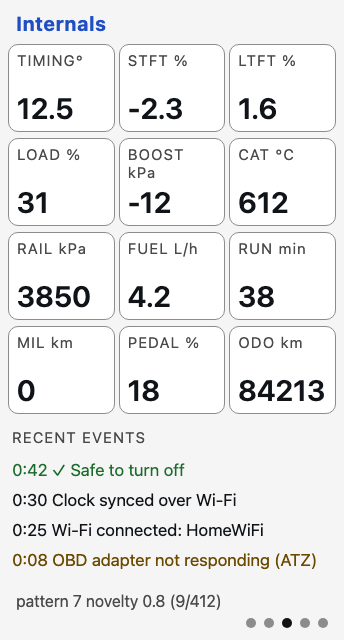
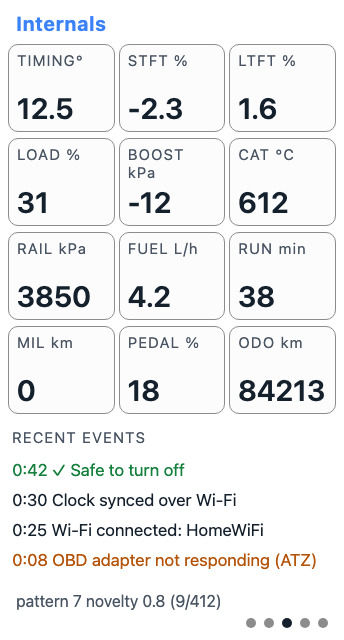
CAR TEMP and SYS TEMP labels, LCD light theme, Mosaico in dark, light and dark
* CAR TEMP and SYS TEMP labels, light theme for the LCD, light Mosaico concept

Page 1 shows the coolant as CAR TEMP, page 5 the chip's own sensor as SYS TEMP.
Light theme: pure white view with tiles drawn by their borders, brand navy text,
a light blue accent, warm oranges in place of dark browns, a coral power bar
with its own palette slot, vivid page-5 section colours. Flashed on the board:
light theme switch 27 ms, 5,589 USB door requests over 5 minutes all answered
(median 54 ms, max 80 ms), no resets, scheduler all deadlines met.

Claude-Session: https://claude.ai/code/session_01XTAvvNGWPbxk6e88iM5qjd

* display.c: comments match the new colours and labels

Claude-Session: https://claude.ai/code/session_01XTAvvNGWPbxk6e88iM5qjd

* Mosaico concept: one image, screens in dark, light and dark

Claude-Session: https://claude.ai/code/session_01XTAvvNGWPbxk6e88iM5qjd

---------

diff --git a/docs/screens/screens.html b/docs/screens/screens.html
@@ -26,8 +26,8 @@ body{margin:0;background:#0A0A0A;font-family:Montserrat,system-ui,sans-serif;col
  <div class="bar"><span style="color:#56F487">&#9679;</span><span style="color:#56F487">&#9632;</span><span style="color:#B8B8B8">&#9650;</span><span class="brand">CarMind</span><span style="margin-left:12px;font-weight:700">18:42</span></div>
  <div style="padding:10px 16px 0"><div class="cap">RPM</div><div class="big">2350</div><div style="margin-top:10px;height:16px;border-radius:8px;background:#050505"><div style="width:34%;height:100%;border-radius:8px;background:#8CC8FF"></div></div></div>
  <div style="padding:12px 16px 0"><div class="cap">SPEED km/h</div><div class="big" style="color:#8CC8FF">64</div></div>
- <div class="grid2"><div class="tile"><span class="cap" style="font-size:16px">TEMP °C</span><span style="font-size:36px;font-weight:600">88</span></div><div class="tile"><span class="cap" style="font-size:16px">BATTERY V</span><span style="font-size:36px;font-weight:600">14.1</span></div><div class="tile"><span class="cap" style="font-size:16px">KM/L</span><span style="font-size:36px;font-weight:600">9.1</span></div><div class="tile"><span class="cap" style="font-size:16px">FUEL %</span><span style="font-size:36px;font-weight:600">62</span></div></div>
- <span class="muted" style="position:absolute;left:16px;top:532px;font-size:17px">CPU</span><i style="position:absolute;left:104px;top:539px;width:120px;height:16px;border-radius:8px;background:#4A4A4A"></i><i style="position:absolute;left:104px;top:539px;width:26px;height:16px;border-radius:8px;background:#8CC8FF"></i><span style="position:absolute;right:16px;top:532px;font-size:17px">22 %</span><span class="muted" style="position:absolute;left:16px;top:572px;font-size:17px">Power</span><i style="position:absolute;left:104px;top:579px;width:120px;height:16px;border-radius:8px;background:#4A4A4A"></i><i style="position:absolute;left:104px;top:579px;width:62px;height:16px;border-radius:8px;background:#F2A13A"></i><span style="position:absolute;right:16px;top:572px;font-size:17px">0.52 W</span>
+ <div class="grid2"><div class="tile"><span class="cap" style="font-size:16px">CAR TEMP °C</span><span style="font-size:36px;font-weight:600">88</span></div><div class="tile"><span class="cap" style="font-size:16px">BATTERY V</span><span style="font-size:36px;font-weight:600">14.1</span></div><div class="tile"><span class="cap" style="font-size:16px">KM/L</span><span style="font-size:36px;font-weight:600">9.1</span></div><div class="tile"><span class="cap" style="font-size:16px">FUEL %</span><span style="font-size:36px;font-weight:600">62</span></div></div>
+ <span class="muted" style="position:absolute;left:16px;top:532px;font-size:17px">CPU</span><i style="position:absolute;left:104px;top:539px;width:120px;height:16px;border-radius:8px;background:#4A4A4A"></i><i style="position:absolute;left:104px;top:539px;width:26px;height:16px;border-radius:8px;background:#8CC8FF"></i><span style="position:absolute;right:16px;top:532px;font-size:17px">22 %</span><span class="muted" style="position:absolute;left:16px;top:572px;font-size:17px">Power</span><i style="position:absolute;left:104px;top:579px;width:120px;height:16px;border-radius:8px;background:#4A4A4A"></i><i style="position:absolute;left:104px;top:579px;width:62px;height:16px;border-radius:8px;background:#F2A33A"></i><span style="position:absolute;right:16px;top:572px;font-size:17px">0.52 W</span>
  <div class="dots"><span class="on"></span><span></span><span></span><span></span><span></span></div>
 </div>
 
@@ -67,7 +67,7 @@ body{margin:0;background:#0A0A0A;font-family:Montserrat,system-ui,sans-serif;col
  <div class="grid2" style="padding:4px 8px 0;gap:6px;white-space:nowrap">
   <div class="tile" style="height:84px;border:2px solid #AD8DFD"><span class="cap" style="font-size:15px;color:#AD8DFD">MIPS 0 / 1</span><span style="font-size:22px;font-weight:600">8.7 / 0.2</span></div>
   <div class="tile" style="height:84px;border:2px solid #72ECE4"><span class="cap" style="font-size:15px;color:#72ECE4">PSRAM</span><span style="font-size:22px;font-weight:600">0.2/7.8 MB</span></div>
-  <div class="tile" style="height:84px;border:2px solid #6CB35D"><span class="cap" style="font-size:15px;color:#6CB35D">TEMP</span><span style="font-size:22px;font-weight:600">41 °C</span></div>
+  <div class="tile" style="height:84px;border:2px solid #6CB35D"><span class="cap" style="font-size:15px;color:#6CB35D">SYS TEMP</span><span style="font-size:22px;font-weight:600">41 °C</span></div>
   <div class="tile" style="height:84px;border:2px solid #FE86C2"><span class="cap" style="font-size:15px;color:#FE86C2">UPTIME / FW</span><span style="font-size:22px;font-weight:600">14m  v2.5.1</span></div>
  </div>
  <div style="position:absolute;left:8px;top:236px;width:328px;height:128px;box-sizing:border-box;background:#050505;border:2px solid #38B8F6;border-radius:12px"><span class="cap" style="position:absolute;left:8px;top:2px;font-size:15px;color:#38B8F6">JOBS</span><span class="muted" style="position:absolute;right:8px;top:2px;font-size:15px">core load 4% / 3%</span><i style="position:absolute;left:8px;top:36px;width:12px;height:12px;border-radius:6px;background:#56F487"></i><span style="position:absolute;left:28px;top:28px;font-size:17px;">Car data</span><i style="position:absolute;left:136px;top:36px;width:64px;height:12px;border-radius:4px;background:#4A4A4A"></i><i style="position:absolute;left:136px;top:36px;width:11px;height:12px;border-radius:4px;background:#56F487"></i><span style="position:absolute;right:10px;top:28px;font-size:17px;color:#F2ECE1">0.6 s</span><i style="position:absolute;left:8px;top:64px;width:12px;height:12px;border-radius:6px;background:#56F487"></i><span style="position:absolute;left:28px;top:56px;font-size:17px;">AI model</span><i style="position:absolute;left:136px;top:64px;width:64px;height:12px;border-radius:4px;background:#4A4A4A"></i><i style="position:absolute;left:136px;top:64px;width:1px;height:12px;border-radius:4px;background:#56F487"></i><span style="position:absolute;right:10px;top:56px;font-size:17px;color:#F2ECE1">&lt;0.1 s</span></div>
@@ -80,7 +80,7 @@ body{margin:0;background:#0A0A0A;font-family:Montserrat,system-ui,sans-serif;col
  <div class="grid2" style="padding:4px 8px 0;gap:6px;white-space:nowrap">
   <div class="tile" style="height:84px;border:2px solid #AD8DFD"><span class="cap" style="font-size:15px;color:#AD8DFD">MIPS 0 / 1</span><span style="font-size:22px;font-weight:600">8.7 / 0.2</span></div>
   <div class="tile" style="height:84px;border:2px solid #72ECE4"><span class="cap" style="font-size:15px;color:#72ECE4">PSRAM</span><span style="font-size:22px;font-weight:600">0.2/7.8 MB</span></div>
-  <div class="tile" style="height:84px;border:2px solid #6CB35D"><span class="cap" style="font-size:15px;color:#6CB35D">TEMP</span><span style="font-size:22px;font-weight:600">41 °C</span></div>
+  <div class="tile" style="height:84px;border:2px solid #6CB35D"><span class="cap" style="font-size:15px;color:#6CB35D">SYS TEMP</span><span style="font-size:22px;font-weight:600">41 °C</span></div>
   <div class="tile" style="height:84px;border:2px solid #FE86C2"><span class="cap" style="font-size:15px;color:#FE86C2">UPTIME / FW</span><span style="font-size:22px;font-weight:600">14m  v2.5.1</span></div>
  </div>
  <div style="position:absolute;left:8px;top:236px;width:328px;height:128px;box-sizing:border-box;background:#050505;border:2px solid #38B8F6;border-radius:12px"><span class="cap" style="position:absolute;left:8px;top:2px;font-size:15px;color:#38B8F6">JOBS</span><span class="muted" style="position:absolute;right:8px;top:2px;font-size:15px">core load 4% / 3%</span><i style="position:absolute;left:8px;top:36px;width:12px;height:12px;border-radius:6px;background:#56F487"></i><span style="position:absolute;left:28px;top:28px;font-size:17px;">Car data</span><i style="position:absolute;left:136px;top:36px;width:64px;height:12px;border-radius:4px;background:#4A4A4A"></i><i style="position:absolute;left:136px;top:36px;width:11px;height:12px;border-radius:4px;background:#56F487"></i><span style="position:absolute;right:10px;top:28px;font-size:17px;color:#F2ECE1">0.6 s</span><i style="position:absolute;left:8px;top:64px;width:12px;height:12px;border-radius:6px;background:#56F487"></i><span style="position:absolute;left:28px;top:56px;font-size:17px;">AI model</span><i style="position:absolute;left:136px;top:64px;width:64px;height:12px;border-radius:4px;background:#4A4A4A"></i><i style="position:absolute;left:136px;top:64px;width:1px;height:12px;border-radius:4px;background:#56F487"></i><span style="position:absolute;right:10px;top:56px;font-size:17px;color:#F2ECE1">&lt;0.1 s</span><i style="position:absolute;left:8px;top:92px;width:12px;height:12px;border-radius:6px;background:#56F487"></i><span style="position:absolute;left:28px;top:84px;font-size:17px;">Learning</span><i style="position:absolute;left:136px;top:92px;width:64px;height:12px;border-radius:4px;background:#4A4A4A"></i><i style="position:absolute;left:136px;top:92px;width:1px;height:12px;border-radius:4px;background:#56F487"></i><span style="position:absolute;right:10px;top:84px;font-size:17px;color:#F2ECE1">&lt;0.1 s</span></div>
@@ -105,7 +105,7 @@ body{margin:0;background:#0A0A0A;font-family:Montserrat,system-ui,sans-serif;col
  <div class="bar"><span style="color:#B8B8B8">&#9679;</span><span style="color:#56F487">&#9632;</span><span style="color:#B8B8B8">&#9650;</span><span class="brand">CarMind</span><span style="margin-left:12px;font-weight:700">--:--</span></div>
  <div style="padding:10px 16px 0"><div class="cap">RPM</div><div class="big" style="color:#7A7A7A">----</div><div style="margin-top:10px;height:16px;border-radius:8px;background:#050505"></div></div>
  <div style="padding:12px 16px 0"><div class="cap">SPEED km/h</div><div class="big" style="color:#7A7A7A">--</div></div>
- <div class="grid2"><div class="tile"><span class="cap" style="font-size:16px">TEMP °C</span><span style="font-size:36px;font-weight:600;color:#7A7A7A">--</span></div><div class="tile"><span class="cap" style="font-size:16px">BATTERY V</span><span style="font-size:36px;font-weight:600;color:#7A7A7A">--</span></div><div class="tile"><span class="cap" style="font-size:16px">KM/L</span><span style="font-size:36px;font-weight:600;color:#7A7A7A">--</span></div><div class="tile"><span class="cap" style="font-size:16px">FUEL %</span><span style="font-size:36px;font-weight:600;color:#7A7A7A">--</span></div></div>
+ <div class="grid2"><div class="tile"><span class="cap" style="font-size:16px">CAR TEMP °C</span><span style="font-size:36px;font-weight:600;color:#7A7A7A">--</span></div><div class="tile"><span class="cap" style="font-size:16px">BATTERY V</span><span style="font-size:36px;font-weight:600;color:#7A7A7A">--</span></div><div class="tile"><span class="cap" style="font-size:16px">KM/L</span><span style="font-size:36px;font-weight:600;color:#7A7A7A">--</span></div><div class="tile"><span class="cap" style="font-size:16px">FUEL %</span><span style="font-size:36px;font-weight:600;color:#7A7A7A">--</span></div></div>
  <div style="text-align:center;color:#FCCA21;font-size:20px;margin-top:14px">Searching for adapter  42 s</div>
  <div class="foot" style="bottom:34px">CPU 2% / 0%   Pow 0.6 W</div><div class="cpubar"><i style="width:2%"></i></div>
  <div class="dots"><span class="on"></span><span></span><span></span><span></span><span></span></div>

diff --git a/docs/images/src/mosaico-rev.html b/docs/images/src/mosaico-rev.html
@@ -23,6 +23,28 @@ h1{margin:0;font-size:31px;font-weight:800;display:inline-block}
 .bar{height:7px;border-radius:4px;background:#4A4A4A;margin-top:8px;overflow:hidden}
 .bar i{display:block;height:100%;background:#8CC8FF;border-radius:4px}
 .tag{font-size:11px;font-weight:700;letter-spacing:.06em;border:1.5px solid currentColor;border-radius:6px;padding:1px 6px;margin-left:8px}
+
+/* the middle device in the light theme: the same rules, colours mapped as main/display.c does */
+.theme-light h1{margin:0;font-size:31px;font-weight:800;display:inline-block}
+.theme-light .scr{width:100%;height:100%;box-sizing:border-box;border-radius:28px;background:#FFFFFF;padding:20px 22px;text-align:left;position:relative}
+.theme-light .top{display:flex;justify-content:space-between;align-items:center;font-size:19px;font-weight:700}
+.theme-light .muted{color:#4A5563}
+.theme-light .small{font-size:13px}
+.theme-light .card{background:#FCFCFC;border:1.5px solid #8C8C8C;border-radius:16px;padding:12px 16px;margin-top:12px}
+.theme-light .light{border-color:#EA6A12}
+.theme-light .lbl{font-size:12px;letter-spacing:.09em;color:#4A5563;font-weight:600}
+.theme-light .light .lbl{color:#EA6A12}
+.theme-light .est{border-color:#BE123C}
+.theme-light .est .lbl{color:#BE123C}
+.theme-light .amber{color:#DD6E0E}
+.theme-light .green{color:#15803D}
+.theme-light .orange{color:#F59A2E}
+.theme-light .kv{display:flex;justify-content:space-between;align-items:baseline;margin-top:9px;font-size:16px}
+.theme-light .big{font-size:26px;font-weight:600}
+.theme-light .bar{height:7px;border-radius:4px;background:#8C8C8C;margin-top:8px;overflow:hidden}
+.theme-light .bar i{display:block;height:100%;background:#3B82F6;border-radius:4px}
+.theme-light .tag{font-size:11px;font-weight:700;letter-spacing:.06em;border:1.5px solid currentColor;border-radius:6px;padding:1px 6px;margin-left:8px}
+.theme-light .scr{color:#15202D}
 </style></head><body><div class="wrap">
 <h1>OpenCarMind with CarMind R.E.V on ESP-Mosaico</h1><span class="sub">Concept for the next board: ESP32-S31, 480 × 480 touch display, IMU, battery</span>
 <div class="row">
@@ -39,10 +61,10 @@ h1{margin:0;font-size:31px;font-weight:800;display:inline-block}
     <div class="bar"><i style="width:47%;background:#56F487"></i></div><div class="small muted" style="margin-top:6px">tank size learned on the board: 50 L</div></div>
 </div></div><div class="cap">Drive: gauges, what the model sees, and the learned tank</div></div>
 
-<div class="col"><div class="dev"><div class="scr">
+<div class="col"><div class="dev theme-light"><div class="scr">
   <div class="top"><span>AI <span class="tag orange">R.E.V</span></span><span class="small muted">142 checks · 2.9 ms</span></div>
   <div class="card light"><div class="kv" style="margin-top:0"><span><span class="lbl">AI SEES</span> <b style="font-size:20px;margin-left:6px">Cruising</b></span><span class="small">87 % sure</span></div>
-    <div class="small" style="color:#B8B8B8;margin-top:4px">fixed in v1: learns in the car once the IMU gives it labels</div></div>
+    <div class="small" style="color:#4A5563;margin-top:4px">fixed in v1: learns in the car once the IMU gives it labels</div></div>
   <div class="card est"><div class="lbl">AI ESTIMATES</div>
     <div class="kv"><span>Brake pressure</span><span class="big">6.3 <span class="small muted">bar</span></span></div>
     <div class="kv"><span>Engine torque <span class="tag amber">PHYSICS</span></span><span class="big amber">85 <span class="small">N m</span></span></div>

diff --git a/docs/index.html b/docs/index.html
@@ -213,7 +213,7 @@
 
   <section id="next">
     <h2>Next board: ESP-Mosaico with the ESP32-S31</h2>
-    <figure class="fig"><img src="images/mosaico-rev.png" alt="Concept: OpenCarMind with CarMind R.E.V on ESP-Mosaico, three 480 by 480 screens: drive gauges, what R.E.V sees and estimates, and what it has learned" loading="lazy" width="3200" height="1480"></figure>
+    <figure class="fig"><img src="images/mosaico-rev.png" alt="Concept: OpenCarMind with CarMind R.E.V on ESP-Mosaico, three 480 by 480 screens in the dark, light and dark themes: drive gauges, what R.E.V sees and estimates, and what it has learned" loading="lazy" width="3200" height="1480"></figure>
     <div class="narrow">
       <p>I have an ESP-Mosaico on order<sup><a href="#r4">[4]</a></sup>. Its ESP32-S31 has two RISC-V cores at 320 MHz with a 128-bit SIMD path, Wi-Fi 6, and Bluetooth 5.4 with both LE and Classic<sup><a href="#r5">[5]</a></sup>. For a car logger that means a 2.16-inch 480 × 480 AMOLED touch screen, Classic adapters such as the OBDLink MX+ within reach, CAN through TWAI and a transceiver, an IMU and magnetometer, a 65 mAh battery to finish the last save, and 16 MB of PSRAM<sup><a href="#r6">[6]</a>,<a href="#r7">[7]</a></sup>. It has no microSD slot, so drives would go to its 128 MB NAND.</p>
       <p>If you build with the ESP32, this is a good board to get, and the port goes faster with more people testing it. The Vision Combo Kit is 59 USD on the <a href="https://store.mosaico.ai/products/esp-mosaico">ESP-Mosaico Store</a> (pre-order, about 15 days to dispatch, as of 3 November 2026). Found something on yours? Open an issue or a pull request on <a href="https://github.com/AlveeeRahman/OpenCarMind">GitHub</a>.</p>

diff --git a/main/display.c b/main/display.c
@@ -87,14 +87,18 @@ static const char *TAG = "display";
  * themes, dim (an idle link) at least 3:1. Dark tiles are near-black (#050505): a grey fill reads as a lit panel
  * on this backlight, so tiles are drawn by their borders. Page 5 gives each of its seven sections its own colour,
  * placed by enumerating all arrangements: in dark, no two sections closer than 15.4 (OKLab x100) for normal vision and
- * every pair that touches at least 8.4 for colour-blind readers; in light, at least 14.7 for normal vision. Each
- * section has a caption, so colour is never the only cue. All values stay distinct after RGB565. */
+ * every pair that touches at least 8.4 for colour-blind readers. Light uses the same hues deepened to saturated mid tones
+ * on pure white (bg #FFFFFF, tiles #FCFCFC, the same on the RGB565 panel, so tiles are drawn by their borders as in
+ * dark), brand navy text, a light blue accent, light warm oranges, no near-black tints that read as mud on the LCD:
+ * body colours at least 4.5:1 on the white tile, the accent and the two oranges at least 3:1 (large numbers, bars, bold heads). The dark theme's pastels
+ * would be 1.4 to 2.6:1 on white. Each section has a caption, so colour is never the only cue. All values stay
+ * distinct after RGB565. */
 typedef struct { uint32_t bg, tile, text, muted, accent, ok, warn, bad, border, dim, violet, blue, amber, sev_high, teal, pink,
-                 orange, red, sage; } theme_t;
+                 orange, red, sage, power; } theme_t;
 static const theme_t THEME_DARK  = {0x000000, 0x050505, 0xF2ECE1, 0xB8B8B8, 0x8CC8FF, 0x56F487, 0xFCCA21, 0xE64343, 0x4A4A4A, 0x7A7A7A,
-                                    0xAD8DFD, 0x38B8F6, 0xF2A13A, 0xF08E54, 0x72ECE4, 0xFE86C2, 0xFE860F, 0xFD122E, 0x6CB35D};
-static const theme_t THEME_LIGHT = {0xF5F5F5, 0xFFFFFF, 0x101418, 0x4A4A4A, 0x1F4FC2, 0x1B6B2A, 0x6B4A00, 0xC62828, 0x8C8C8C, 0x6E6E6E,
-                                    0x5517A5, 0x196EA9, 0x8F5200, 0xA84300, 0x034239, 0x971C65, 0xA65F00, 0xD4002A, 0x40731A};
+                                    0xAD8DFD, 0x38B8F6, 0xF2A13A, 0xF08E54, 0x72ECE4, 0xFE86C2, 0xFE860F, 0xFD122E, 0x6CB35D, 0xF2A33A};
+static const theme_t THEME_LIGHT = {0xFFFFFF, 0xFCFCFC, 0x15202D, 0x4A5563, 0x3B82F6, 0x15803D, 0xB45309, 0xC62828, 0x8C8C8C, 0x6B7280,
+                                    0x7C3AED, 0x1D4ED8, 0xDD6E0E, 0xC2410C, 0x0E7490, 0xA21CAF, 0xEA6A12, 0xBE123C, 0x4D7C0F, 0xE5484D};
 static const theme_t *T = &THEME_DARK;
 #define C_BG      (T->bg)
 #define C_TILE    (T->tile)
@@ -114,6 +118,7 @@ static const theme_t *T = &THEME_DARK;
 #define C_RED     (T->red)
 #define C_SAGE    (T->sage)
 #define C_AMBER   (T->amber)      /* an estimated value (no PID behind it) */
+#define C_POWER   (T->power)      /* the power bar on page 1: amber in dark, coral red next to the blue CPU bar in light */
 #define C_SEV_HIGH (T->sev_high)  /* high-severity fault: orange, ISO 2575 caution, between C_WARN and C_BAD */
 
 static lv_display_t *s_disp;
@@ -340,7 +345,7 @@ static void build_page0(void)
     lv_obj_set_pos(lbl_speed, 6, 107);
 
     /* 2x2 tiles */
-    static const char *caps[4] = {"TEMP " "\xC2\xB0" "C", "BATTERY V", "KM/L", "FUEL %"};   /* TEMP = coolant, as car dashboards show it */
+    static const char *caps[4] = {"CAR TEMP " "\xC2\xB0" "C", "BATTERY V", "KM/L", "FUEL %"};   /* CAR TEMP = coolant, as car dashboards show it */
     for (int i = 0; i < 4; i++) {
         int x = 8 + (i % 2) * 80, y = 156 + (i / 2) * 52;
         make_tile(scr0, x, y, 76, 48, caps[i], &tile_val[i], &tile_cap[i]);
@@ -363,7 +368,7 @@ static void build_page0(void)
         lv_obj_set_pos(*bars[i], 52, y + 4);
         lv_bar_set_range(*bars[i], 0, 100);
         lv_obj_set_style_bg_color(*bars[i], lv_color_hex(C_BORDER), LV_PART_MAIN);
-        lv_obj_set_style_bg_color(*bars[i], lv_color_hex(i ? C_AMBER : C_ACCENT), LV_PART_INDICATOR);
+        lv_obj_set_style_bg_color(*bars[i], lv_color_hex(i ? C_POWER : C_ACCENT), LV_PART_INDICATOR);
         lv_obj_set_style_radius(*bars[i], 4, LV_PART_MAIN);
         lv_obj_set_style_radius(*bars[i], 4, LV_PART_INDICATOR);
         *vals[i] = make_label(scr0, &lv_font_montserrat_12, C_TEXT);
@@ -573,7 +578,7 @@ static void refresh_page3(const app_status_t *st)
 }
 
 /* page 4: four fixed tiles, three event lines coloured by level, then two live strips: the soft real-time scheduler
- * (one row per registered job) and the on-board model. Tiles: CPU violet, PSRAM aqua / TEMP green, UPTIME pink.
+ * (one row per registered job) and the on-board model. Tiles: CPU violet, PSRAM aqua / SYS TEMP green, UPTIME pink.
  * Strips: jobs sky, the classifier orange, the estimator red. Violet and sky, the closest pair for colour-blind
  * readers, never touch. */
 #define S4_JOBS  3
@@ -628,7 +633,7 @@ static void build_page4(void)
     s4_head = make_label(scr4, &lv_font_montserrat_14, C_ACCENT);
     lv_label_set_text(s4_head, "System");
     lv_obj_set_pos(s4_head, 8, 4);
-    static const char *caps[4] = {"MIPS 0 / 1", "PSRAM", "TEMP", "UPTIME / FW"};    /* CPU % and power are on page 1 */
+    static const char *caps[4] = {"MIPS 0 / 1", "PSRAM", "SYS TEMP", "UPTIME / FW"};    /* SYS TEMP = the chip's own sensor, page 1 CAR TEMP = coolant */
     const uint32_t cols[4] = {C_VIOLET, C_TEAL, C_SAGE, C_PINK};            /* TL TR / BL BR */
     for (int i = 0; i < 4; i++) {
         int x = 4 + (i % 2) * 83, y = 24 + (i / 2) * 46;
@@ -1094,7 +1099,7 @@ static void refresh_cb(lv_timer_t *t)
 
     /* economy: the drive's average, or the instant value until enough is counted; amber when it rests on the model */
     if (new_units) lv_label_set_text(tile_cap[2], un == UNITS_METRIC ? "KM/L" : un == UNITS_UK ? "MPG (UK)" : "MPG");
-    if (new_units) lv_label_set_text(tile_cap[0], un == UNITS_US ? "TEMP \xC2\xB0" "F" : "TEMP \xC2\xB0" "C");
+    if (new_units) lv_label_set_text(tile_cap[0], un == UNITS_US ? "CAR TEMP \xC2\xB0" "F" : "CAR TEMP \xC2\xB0" "C");
     {
         float kpl = o->econ_trip_kpl >= 0 ? o->econ_trip_kpl : o->econ_inst_kpl;
         if (live && kpl >= 0) {

diff --git a/CHANGELOG.md b/CHANGELOG.md
@@ -4,6 +4,8 @@
 
 A new brand, a screen made for the LCD, and a visible power-off.
 
+- Page 1 labels the coolant CAR TEMP and page 5 labels the chip's own temperature SYS TEMP.
+- Light theme reworked for the LCD: pure white view with tiles drawn by their borders, brand navy text, a light blue accent, warm oranges in place of dark browns, a coral power bar, and vivid section colours on page 5. The Mosaico concept shows its three screens in the dark, light and dark themes.
 - **Brand**: a new night-drive palette (navy, warm ink, cobalt, amber) across the README, the website, the desktop app and its icons, and a sharper vector logo. Banner chips now read ESP32-S3, Bluetooth LE, TinyML, Desktop app and Active Learning.
 - **Screen colours for a backlit LCD**: the dark theme is pure black, because any tint in the background glows through the backlight. Text is 4.5:1 or more on every background in both themes. Page 5 gives each of its seven sections its own colour (classifier orange, estimator red), checked for normal and colour-blind vision.
 - **Power-off you can see**: holding BOOT shows "Turning off" while the drive is saved, then "Off, safe to unplug". The backlight fades and the LED stays dark in deep sleep.

diff --git a/README.md b/README.md
@@ -296,7 +296,7 @@ Not checked yet: R.E.V over many drives and other cars, the corrected R.E.V on t
 
 ## Next board: ESP-Mosaico with the ESP32-S31
 
-<p align="center"><img src="docs/images/mosaico-rev.png" width="900" alt="Concept: OpenCarMind with CarMind R.E.V on ESP-Mosaico, three 480 by 480 screens: drive, AI and learning"></p>
+<p align="center"><img src="docs/images/mosaico-rev.png" width="900" alt="Concept: OpenCarMind with CarMind R.E.V on ESP-Mosaico, three 480 by 480 screens in the dark, light and dark themes: drive gauges, what R.E.V sees and estimates, and what it has learned"></p>
 
 The next board is Espressif's ESP-Mosaico<sup>[[12]](#ref-12)</sup>, built on the ESP32-S31, with a 480 × 480 touch screen, Bluetooth Classic, a motion sensor and a small battery. I have one on order, and the concept above (a render with example values) shows CarMind R.E.V on it. The full board comparison is in the [detailed README](https://github.com/AlveeeRahman/OpenCarMind/blob/rev-c2/README.md#next-board-esp-mosaico-with-the-esp32-s31).
 
